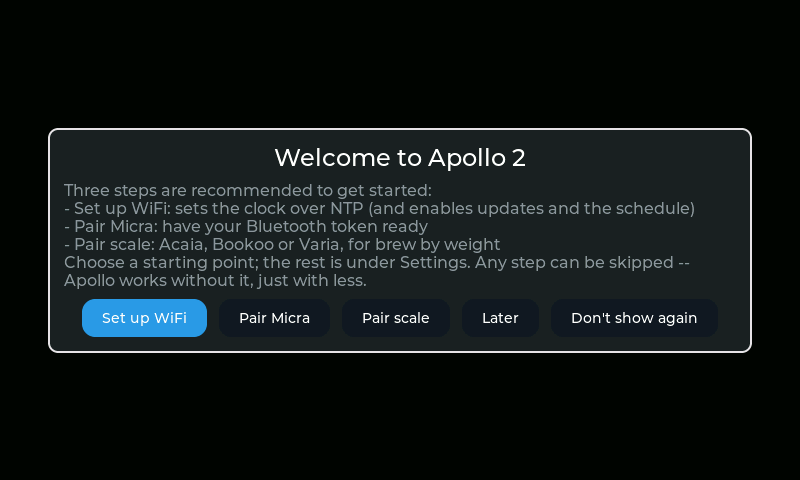
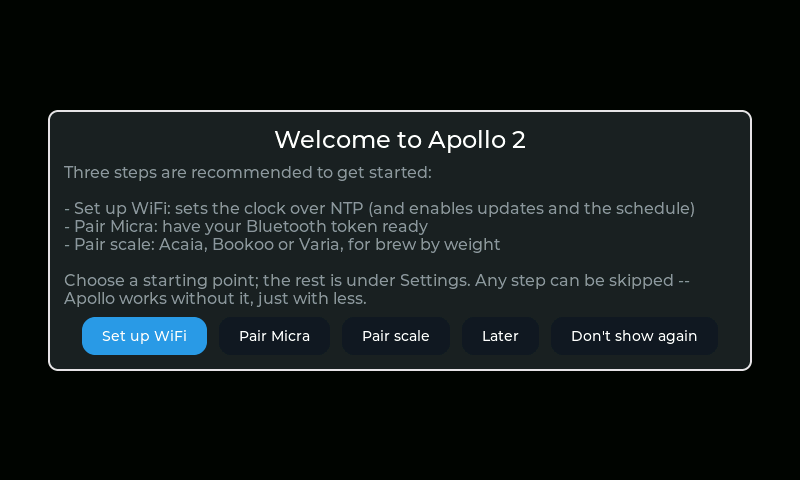
welcome: a blank line before and after the step list

Changed region(s): [[0.0625, 0.5312, 0.9375, 0.7812], [0.0625, 0.2188, 0.9375, 0.4062]]

diff --git a/src/ui/app.cpp b/src/ui/app.cpp
@@ -4617,10 +4617,10 @@ void App::open_welcome_modal() {
   const bool scale_done = scale_provisioner_ != nullptr && !scale_provisioner_->saved_name().empty();
   char body[420];
   std::snprintf(body, sizeof(body),
-                "Three steps are recommended to get started:\n"
+                "Three steps are recommended to get started:\n\n"
                 "- Set up WiFi: sets the clock over NTP (and enables updates and the schedule)%s\n"
                 "- Pair Micra: have your Bluetooth token ready\n"
-                "- Pair scale: Acaia, Bookoo or Varia, for brew by weight%s\n"
+                "- Pair scale: Acaia, Bookoo or Varia, for brew by weight%s\n\n"
                 "Choose a starting point; the rest is under Settings. Any step can be "
                 "skipped -- Apollo works without it, just with less.",
                 wifi_done ? " -- done" : "", scale_done ? " -- done" : "");
